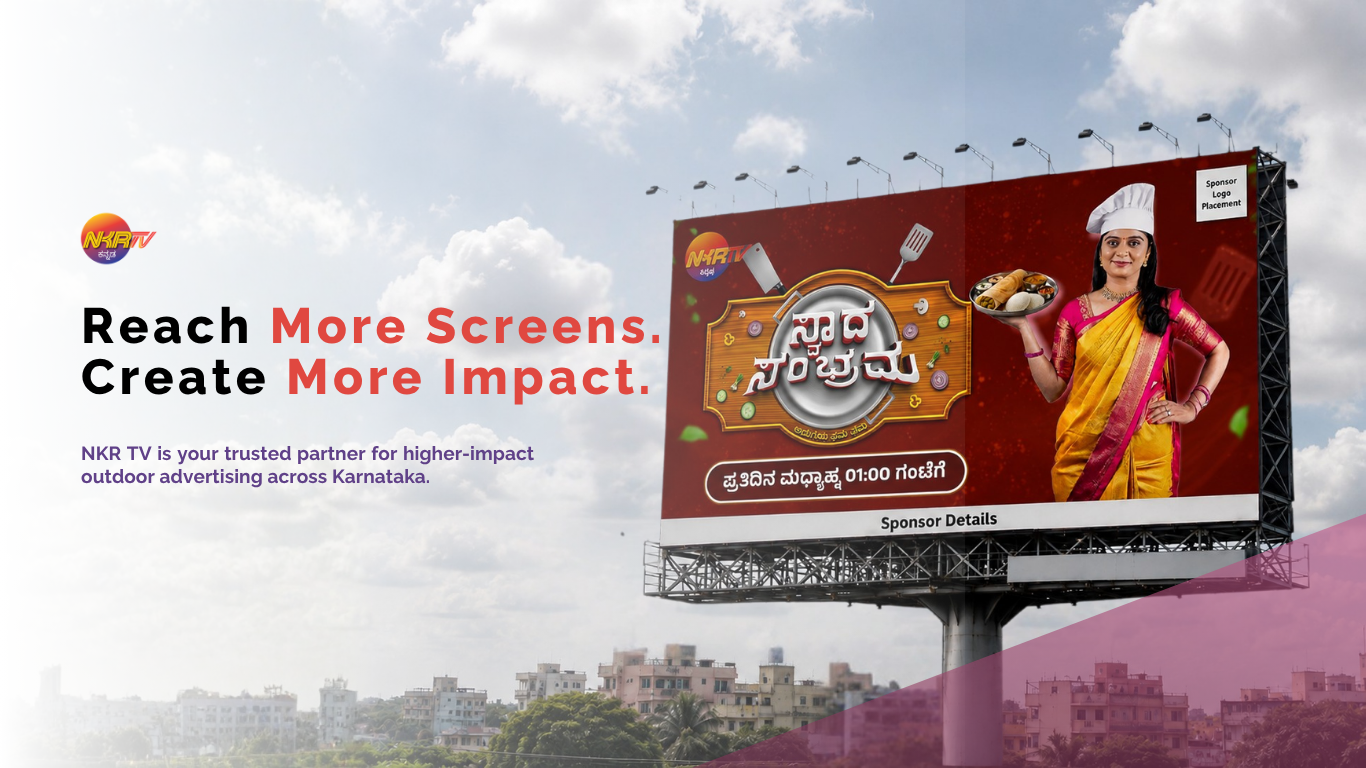
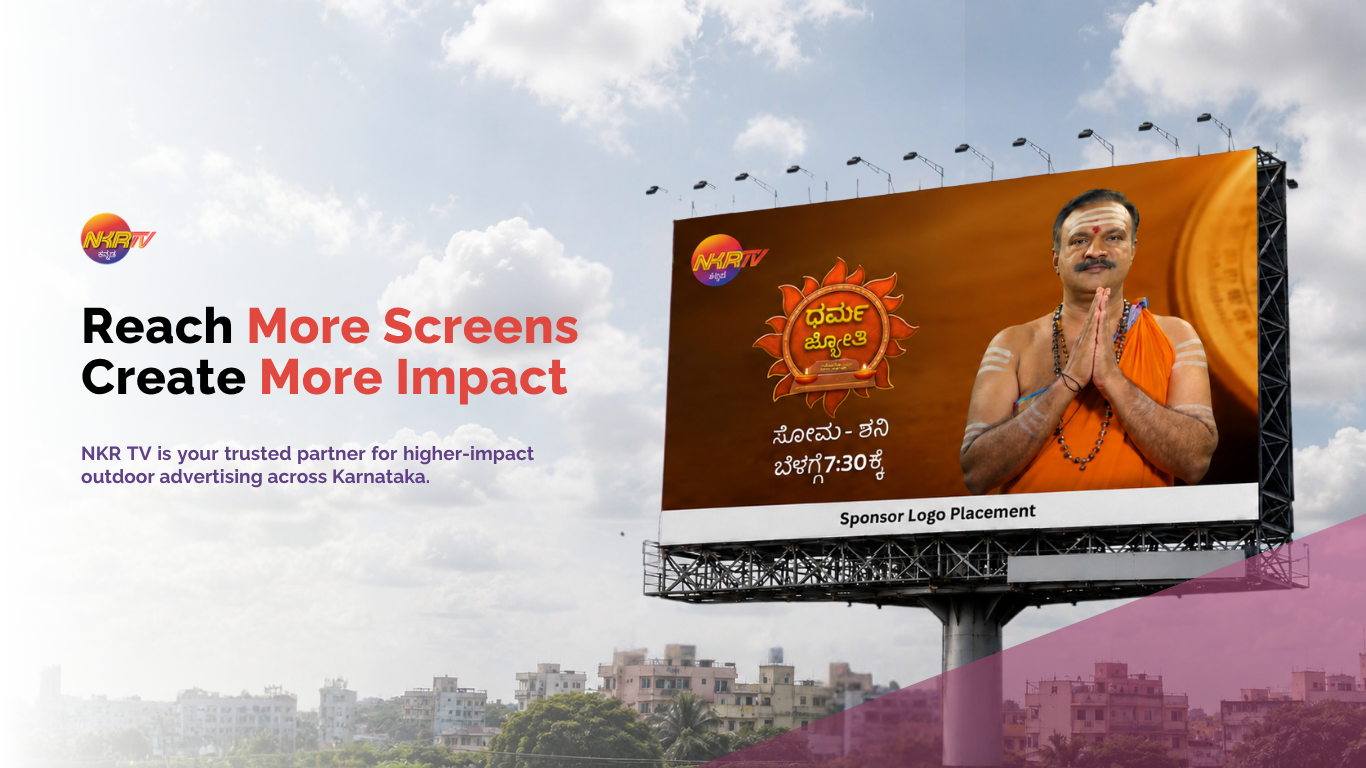
small updates

Changed region(s): [[0.0615, 0.1875, 0.9531, 0.8125]]

diff --git a/src/pages/FictionPage.tsx b/src/pages/FictionPage.tsx
@@ -1,4 +1,5 @@
 import { useState, useRef } from 'react';
+import ComingSoonSection from '../components/sections/ComingSoonSection';
 
 type VideoItem = {
   id: string;
@@ -97,52 +98,53 @@ export default function FictionPage() {
 
   const featuredPrograms = [
     {
+      title: 'Agni Hotra',
+      desc: 'Discover the sacred Vedic ritual of Agnihothra and its profound spiritual significance. Learn how this ancient fire ceremony promotes inner peace, positive energy, and harmony for individuals, families, and the environment.',
+      image: '/images/agni_hothra_1k_res.webp',
+      time: 'Everyday 5:30 AM',
+      videoId: '/videos/AGNI_HOTRA_NKRTVKannada_720P.webm',
+    },
+    {
       title: 'Narayaneeyam',
-      desc: 'Immerse yourself in the divine tales and spiritual journey of Narayaneeyam. Watch the serial every Monday to Friday at 6:00 AM on NKR TV Kannada.',
+      desc: 'Begin your day with the divine wisdom of Narayaneeyam, a timeless spiritual masterpiece that inspires devotion, and a deeper connection with Lord Krishna. Explore its profound teachings and discover the path to faith, wisdom, and spiritual fulfillment.',
       image: '/images/narayaneeyam_1k_res.webp',
       time: 'Mon-Fri 6:00 AM',
       videoId: '/videos/Narayaneyam_Promo.webm',
-      badge: 'Featured Serial'
     },
     {
       title: 'Anantha Darshana',
-      desc: 'Experience the profound teachings and stories of Anantha Darshana. Watch the serial every Monday to Friday at 6:30 AM on NKR TV Kannada.',
+      desc: 'Embark on a sacred journey to renowned temples across Karnataka and beyond. Discover their fascinating history, unique architecture, spiritual significance, and the inspiring stories that have shaped centuries of devotion.',
       image: '/images/anantha_dharshana_1k_res.webp',
       time: 'Mon-Fri 6:30 AM',
       videoId: '/videos/Anantha_Darshana_Promo_NKR_Tv_Kannada.webm',
-      badge: 'Popular Serial'
     },
     {
       title: 'Naada Lahari',
-      desc: 'Begin your day with the soulful melodies of Naada Lahari. Watch the program every Monday to Friday at 7:00 AM on NKR TV Kannada.',
+      desc: 'Experience the soothing power of devotional music with melodious bhajans, keerthanas, and timeless compositions by legendary saints and composers. Let every morning begin with divine melodies that uplift the soul.',
       image: '/images/nada_lahari_1k_res.webp',
       time: 'Mon-Fri 7:00 AM',
       videoId: '/videos/Naada_Lahari_PROMO_Kannada.webm',
-      badge: 'Music Show'
     },
     {
       title: 'Dharma Jyothi',
-      desc: 'Find the light of righteousness with Dharma Jyothi. Watch the program every Monday to Saturday at 7:30 AM on NKR TV Kannada.',
+      desc: 'Explore the timeless wisdom of the Bhagavad Gita and other sacred scriptures through insightful spiritual discourses. Learn practical life lessons, discover the values of Dharma, and find guidance for leading a meaningful and balanced life.',
       image: '/images/dharma_jyothi_1k_res.webp',
       time: 'Mon-Sat 7:30 AM',
       videoId: '/videos/Dharma_Jyothi_PROMO_NKR_TV_Kannada.webm',
-      badge: 'Devotional'
     },
     {
       title: 'Swaada Sambrama',
-      desc: 'Explore the culinary delights of Swaada Sambrama. Watch the program everyday at 1:00 PM on NKR TV Kannada.',
+      desc: 'Celebrate the joy of cooking with authentic Karnataka recipes, regional delicacies, healthy dishes, and innovative culinary creations. From traditional flavors to modern twists, every episode brings delicious inspiration to your kitchen.',
       image: '/images/swada_sambhrama_1k_res.webp',
       time: 'Everyday 1:00 PM',
       videoId: '/videos/swada_sambrama_weekly_promo.webm',
-      badge: 'Cooking Show'
     },
     {
       title: 'Super Kannadiga',
-      desc: 'Celebrate the spirit of Karnataka with Super Kannadiga. Watch the program every Monday to Friday at 7:00 PM on NKR TV Kannada.',
+      desc: 'Challenge your general knowledge with exciting questions covering Karnataka, India, history, culture, science, sports, and more. Answer correctly, participate from the comfort of your home, and stand a chance to win exciting cash prizes.',
       image: '/images/super_kannadiga_1k_res.webp',
       time: 'Mon-Fri 7:00 PM',
       videoId: '/videos/super_kannadiga_new_promo.webm',
-      badge: 'Entertainment'
     }
   ];
 
@@ -417,11 +419,11 @@ export default function FictionPage() {
           className="fiction-hero-title mb-4 font-extrabold leading-tight text-white"
           style={{ fontSize: 'clamp(36px, 6vw, 60px)' }}
         >
-          Stories
+          Our Programs
         </h1>
         <div className="mx-auto mb-5 h-[3px] w-16 rounded-full bg-white/40" />
         <p className="fiction-hero-copy mx-auto max-w-xl text-[16px] font-medium text-white/90">
-          Immerse yourself in a diverse world of captivating serials, devotional tales, musical mornings, and endless entertainment.
+          Discover the essence of Karnataka through inspiring spiritual discourses, divine temple journeys, soulful devotional music, authentic culinary experiences, & engaging knowledge-based shows, all in one destination.
         </p>
       </section>
 
@@ -468,9 +470,7 @@ export default function FictionPage() {
                       WebkitMaskImage: `radial-gradient(circle at ${index % 2 !== 0 ? 'top left' : 'top right'}, black 35%, transparent 70%)`,
                     }}
                   />
-                  <div className="mb-3 inline-flex w-max items-center rounded-full bg-[#E63E1A]/10 px-3 py-1 text-[11px] font-bold uppercase tracking-wider text-[#E63E1A]">
-                    {program.badge}
-                  </div>
+
                   <h2 className="mb-4 text-3xl font-extrabold leading-tight text-[#2D1810] sm:text-4xl">
                     {program.title}
                   </h2>
@@ -494,6 +494,8 @@ export default function FictionPage() {
             </section>
           ))}
         </div>
+
+        <ComingSoonSection />
 
         <section className="relative mb-8 overflow-hidden">
           <div className="mb-5 flex items-center justify-between">

diff --git a/src/pages/AdvertisementsPage.tsx b/src/pages/AdvertisementsPage.tsx
@@ -1,13 +1,13 @@
-import { useState, useRef } from 'react';
+import { useState, useRef, useEffect } from 'react';
 
 const ACCENT = '#E63E1A';
 const ACCENT_DARK = '#b02010';
 
 const services = [
-  { label: 'Hoardings', img: '/images/ads/HOARDINGS 2.webp' },
-  { label: 'Buses', img: '/images/ads/buses.webp' },
-  { label: 'Bus Stop Branding', img: '/images/ads/bus stop.webp' },
-  { label: 'Auto Branding', img: '/images/ads/auto.webp' },
+  { label: 'Hoardings', imgs: ['/images/ads/HOARDINGS 2.webp', '/images/ads/HOARDINGS (1).webp'] },
+  { label: 'Buses', imgs: ['/images/ads/buses.webp', '/images/ads/buses 2.webp'] },
+  { label: 'Bus Stop Branding', imgs: ['/images/ads/bus stop_.webp', '/images/ads/bus stop 2.webp'] },
+  { label: 'Auto Branding', imgs: ['/images/ads/auto.webp', '/images/ads/auto (1).webp'] },
 ];
 
 const adFormatTabs: {
@@ -136,6 +136,27 @@ export default function AdvertisementsPage() {
   const [advErrors, setAdvErrors] = useState<Record<string, string>>({});
   const [advSubmitted, setAdvSubmitted] = useState(false);
   const advFormRef = useRef<HTMLFormElement>(null);
+  const [heroIndex, setHeroIndex] = useState(0);
+  const [serviceIndex, setServiceIndex] = useState(0);
+
+  const heroImages = [
+    '/images/ad_banner.webp',
+    '/images/ad_banner2.webp'
+  ];
+
+  useEffect(() => {
+    const interval = setInterval(() => {
+      setHeroIndex((prev) => (prev + 1) % heroImages.length);
+    }, 4000); // 4s quick fade interval
+    return () => clearInterval(interval);
+  }, [heroImages.length]);
+
+  useEffect(() => {
+    const interval = setInterval(() => {
+      setServiceIndex((prev) => (prev + 1) % 2); // all services have 2 images
+    }, 3500); // slightly offset from hero
+    return () => clearInterval(interval);
+  }, []);
 
   const handleAdvSubmit = (e: React.FormEvent) => {
     e.preventDefault();
@@ -322,12 +343,17 @@ export default function AdvertisementsPage() {
       `}</style>
 
       {/* ── 01 Hero Banner (no text) ── */}
-      <section className="advertisements-hero relative w-full h-[220px] sm:h-[420px] md:h-[620px] overflow-hidden">
-        <img
-          src="/images/ad_banner.webp"
-          alt="Advertisement Banner"
-          className="w-full h-full object-cover"
-        />
+      <section className="advertisements-hero relative w-full h-[220px] sm:h-[420px] md:h-[620px] overflow-hidden bg-[#1a0a00]">
+        {heroImages.map((src, i) => (
+          <img
+            key={src}
+            src={src}
+            alt={`Advertisement Banner ${i + 1}`}
+            className={`absolute inset-0 w-full h-full object-cover transition-opacity duration-700 ease-in-out ${
+              i === heroIndex ? 'opacity-100 z-10' : 'opacity-0 z-0'
+            }`}
+          />
+        ))}
       </section>
 
       {/* ── 02 Our Services ── */}
@@ -345,12 +371,17 @@ export default function AdvertisementsPage() {
           <div className="advertisements-services-grid grid grid-cols-2 sm:grid-cols-3 lg:grid-cols-4 gap-5">
             {services.map((s, i) => (
               <div key={i} className="flex flex-col items-center gap-3 group">
-                <div className="w-full overflow-hidden rounded-[14px] bg-[#f5f5f5]">
-                  <img
-                    src={s.img}
-                    alt={s.label}
-                    className="advertisements-service-image w-full h-[140px] sm:h-[180px] object-cover transition-transform duration-500 group-hover:scale-105"
-                  />
+                <div className="w-full overflow-hidden rounded-[14px] bg-[#f5f5f5] relative h-[140px] sm:h-[180px]">
+                  {s.imgs.map((src, imgIdx) => (
+                    <img
+                      key={src}
+                      src={src}
+                      alt={`${s.label} ${imgIdx + 1}`}
+                      className={`absolute inset-0 w-full h-[140px] sm:h-[180px] object-cover group-hover:scale-105 transition-all duration-700 ease-in-out ${
+                        imgIdx === serviceIndex ? 'opacity-100 z-10' : 'opacity-0 z-0'
+                      }`}
+                    />
+                  ))}
                 </div>
                 <span className="advertisements-service-label text-[13px] sm:text-[14px] font-bold text-[#1a0a00]">{s.label}</span>
                 <span className="h-[2px] w-8 rounded-full" style={{ background: ACCENT }} />

diff --git a/src/components/layout/Footer.tsx b/src/components/layout/Footer.tsx
@@ -48,6 +48,17 @@ const viewershipStats = [
   { label: '558', count: '558', img: '/images/footer_viewership/23.webp' },
 ];
 
+const viewershipStats2 = [
+  { label: '43', count: '', img: '/images/footer_viewership/43.webp' },
+  { label: '44', count: '', img: '/images/footer_viewership/44.webp' },
+  { label: '45', count: '', img: '/images/footer_viewership/45.webp' },
+  { label: '46', count: '', img: '/images/footer_viewership/46.webp' },
+  { label: '47', count: '', img: '/images/footer_viewership/47.webp' },
+  { label: '48', count: '', img: '/images/footer_viewership/48.webp' },
+  { label: '49', count: '', img: '/images/footer_viewership/49.webp' },
+];
+
+
 export default function Footer() {
   return (
     <footer className="w-full bg-[linear-gradient(180deg,#7b0606_0%,#3c0101_100%)] text-white">
@@ -78,9 +89,9 @@ export default function Footer() {
             <p className="text-[11px] font-bold uppercase tracking-[0.2em] text-[#7c3b63]">
               Viewership &amp; Distribution
             </p>
-            <p className="mt-2 max-w-[640px] text-[15px] leading-[1.45] text-[#6d4f78] sm:text-[17px]">
-              Overall, in Karnataka, we have viewership of <span className="font-black text-[#6f4eb7]">30 lakhs weekdays</span>,<br />
-              and on <span className="font-black text-[#6f4eb7]">weekends, 45 lakhs</span><br />
+            <p className="mt-2 max-w-[800px] text-[15px] leading-[1.45] text-[#6d4f78] sm:text-[17px]">
+              Overall, in Karnataka, we have viewership of <span className="font-black text-[#6f4eb7]">60 lakhs weekdays</span>,
+              and on <span className="font-black text-[#6f4eb7]">weekends, 80 lakhs</span>
             </p>
 
             <div className="mt-5 flex flex-col gap-3">
@@ -115,6 +126,25 @@ export default function Footer() {
                     <span className="text-[15px] font-black leading-none text-[#6d2a4f]">
                       {item.count}
                     </span>
+                  </div>
+                ))}
+              </div>
+              {/* Row 3 */}
+              <div className="flex flex-wrap gap-x-5 gap-y-3">
+                {viewershipStats2.map((item) => (
+                  <div key={item.label} className="flex items-center gap-2">
+                    <div className="flex h-8 w-8 shrink-0 items-center justify-center rounded-full border border-[#d9c8bf] bg-white shadow-[0_2px_6px_rgba(0,0,0,0.05)] overflow-hidden">
+                      <img
+                        src={item.img || SITE_LOGO_URL}
+                        alt="NKRTV"
+                        className="h-full w-full object-contain"
+                      />
+                    </div>
+                    {item.count && (
+                      <span className="text-[15px] font-black leading-none text-[#6d2a4f]">
+                        {item.count}
+                      </span>
+                    )}
                   </div>
                 ))}
               </div>

diff --git a/src/components/sections/DivineContentSection.tsx b/src/components/sections/DivineContentSection.tsx
@@ -216,7 +216,7 @@ export default function DivineContentSection() {
   };
 
   return (
-    <section className="relative overflow-hidden bg-white py-16">
+    <section className="relative overflow-hidden bg-white pt-16">
       <DotBackdrop className="-top-16 -right-16 z-0 h-[420px] w-[420px] opacity-28" />
       <DotBackdrop className="top-[22%] -left-20 z-0 h-[360px] w-[360px] opacity-18" />
       <DotBackdrop className="bottom-[4%] right-[8%] z-0 h-[260px] w-[260px] opacity-12" />
@@ -384,13 +384,13 @@ export default function DivineContentSection() {
               <div className="h-[1px] w-8 bg-[#D68B45]/50 sm:w-12" />
             </div>
 
-            <div className="flex w-full max-w-4xl flex-wrap justify-center gap-3 sm:gap-4">
+            <div className="flex w-full flex-wrap justify-center gap-3 sm:gap-4">
               <div className="flex min-h-[68px] w-full sm:w-auto min-w-[200px] flex-1 items-center gap-2.5 rounded-[16px] bg-[#FBF4EA] px-3 py-3 shadow-[0_6px_18px_rgba(0,0,0,0.04)] sm:gap-3 sm:px-5 sm:py-4">
                 <div className="flex h-8 w-8 shrink-0 items-center justify-center rounded-full bg-[#FDF8F0] text-[#D68B45] sm:h-10 sm:w-10">
-                  <i className="fa-solid fa-leaf text-[13px] sm:text-[16px]" />
+                  <i className="fa-solid fa-scroll text-[13px] sm:text-[16px]" />
                 </div>
                 <h4 className="text-[11px] font-bold leading-[1.15] text-[#311B5E] sm:text-[14px] sm:leading-tight">
-                  Amrutha Vachana
+                  Kannadada Saahithya Siri
                 </h4>
               </div>
 

diff --git a/src/components/sections/ComingSoonSection.tsx b/src/components/sections/ComingSoonSection.tsx
@@ -35,7 +35,7 @@ export default function ComingSoonSection() {
   };
 
   return (
-    <section className="-mt-px bg-white py-8 pb-14">
+    <section className="-mt-px bg-transparent py-8 pb-14">
       <div className="mx-auto w-full max-w-[1510px] px-4 sm:px-6 lg:px-10">
         <div className="rounded-[26px] border border-[#ead5b3] bg-[#fbf7ea] px-4 py-6 shadow-[0_10px_30px_rgba(88,44,6,0.06)] sm:px-6 sm:py-7">
           {/* Section Header */}
